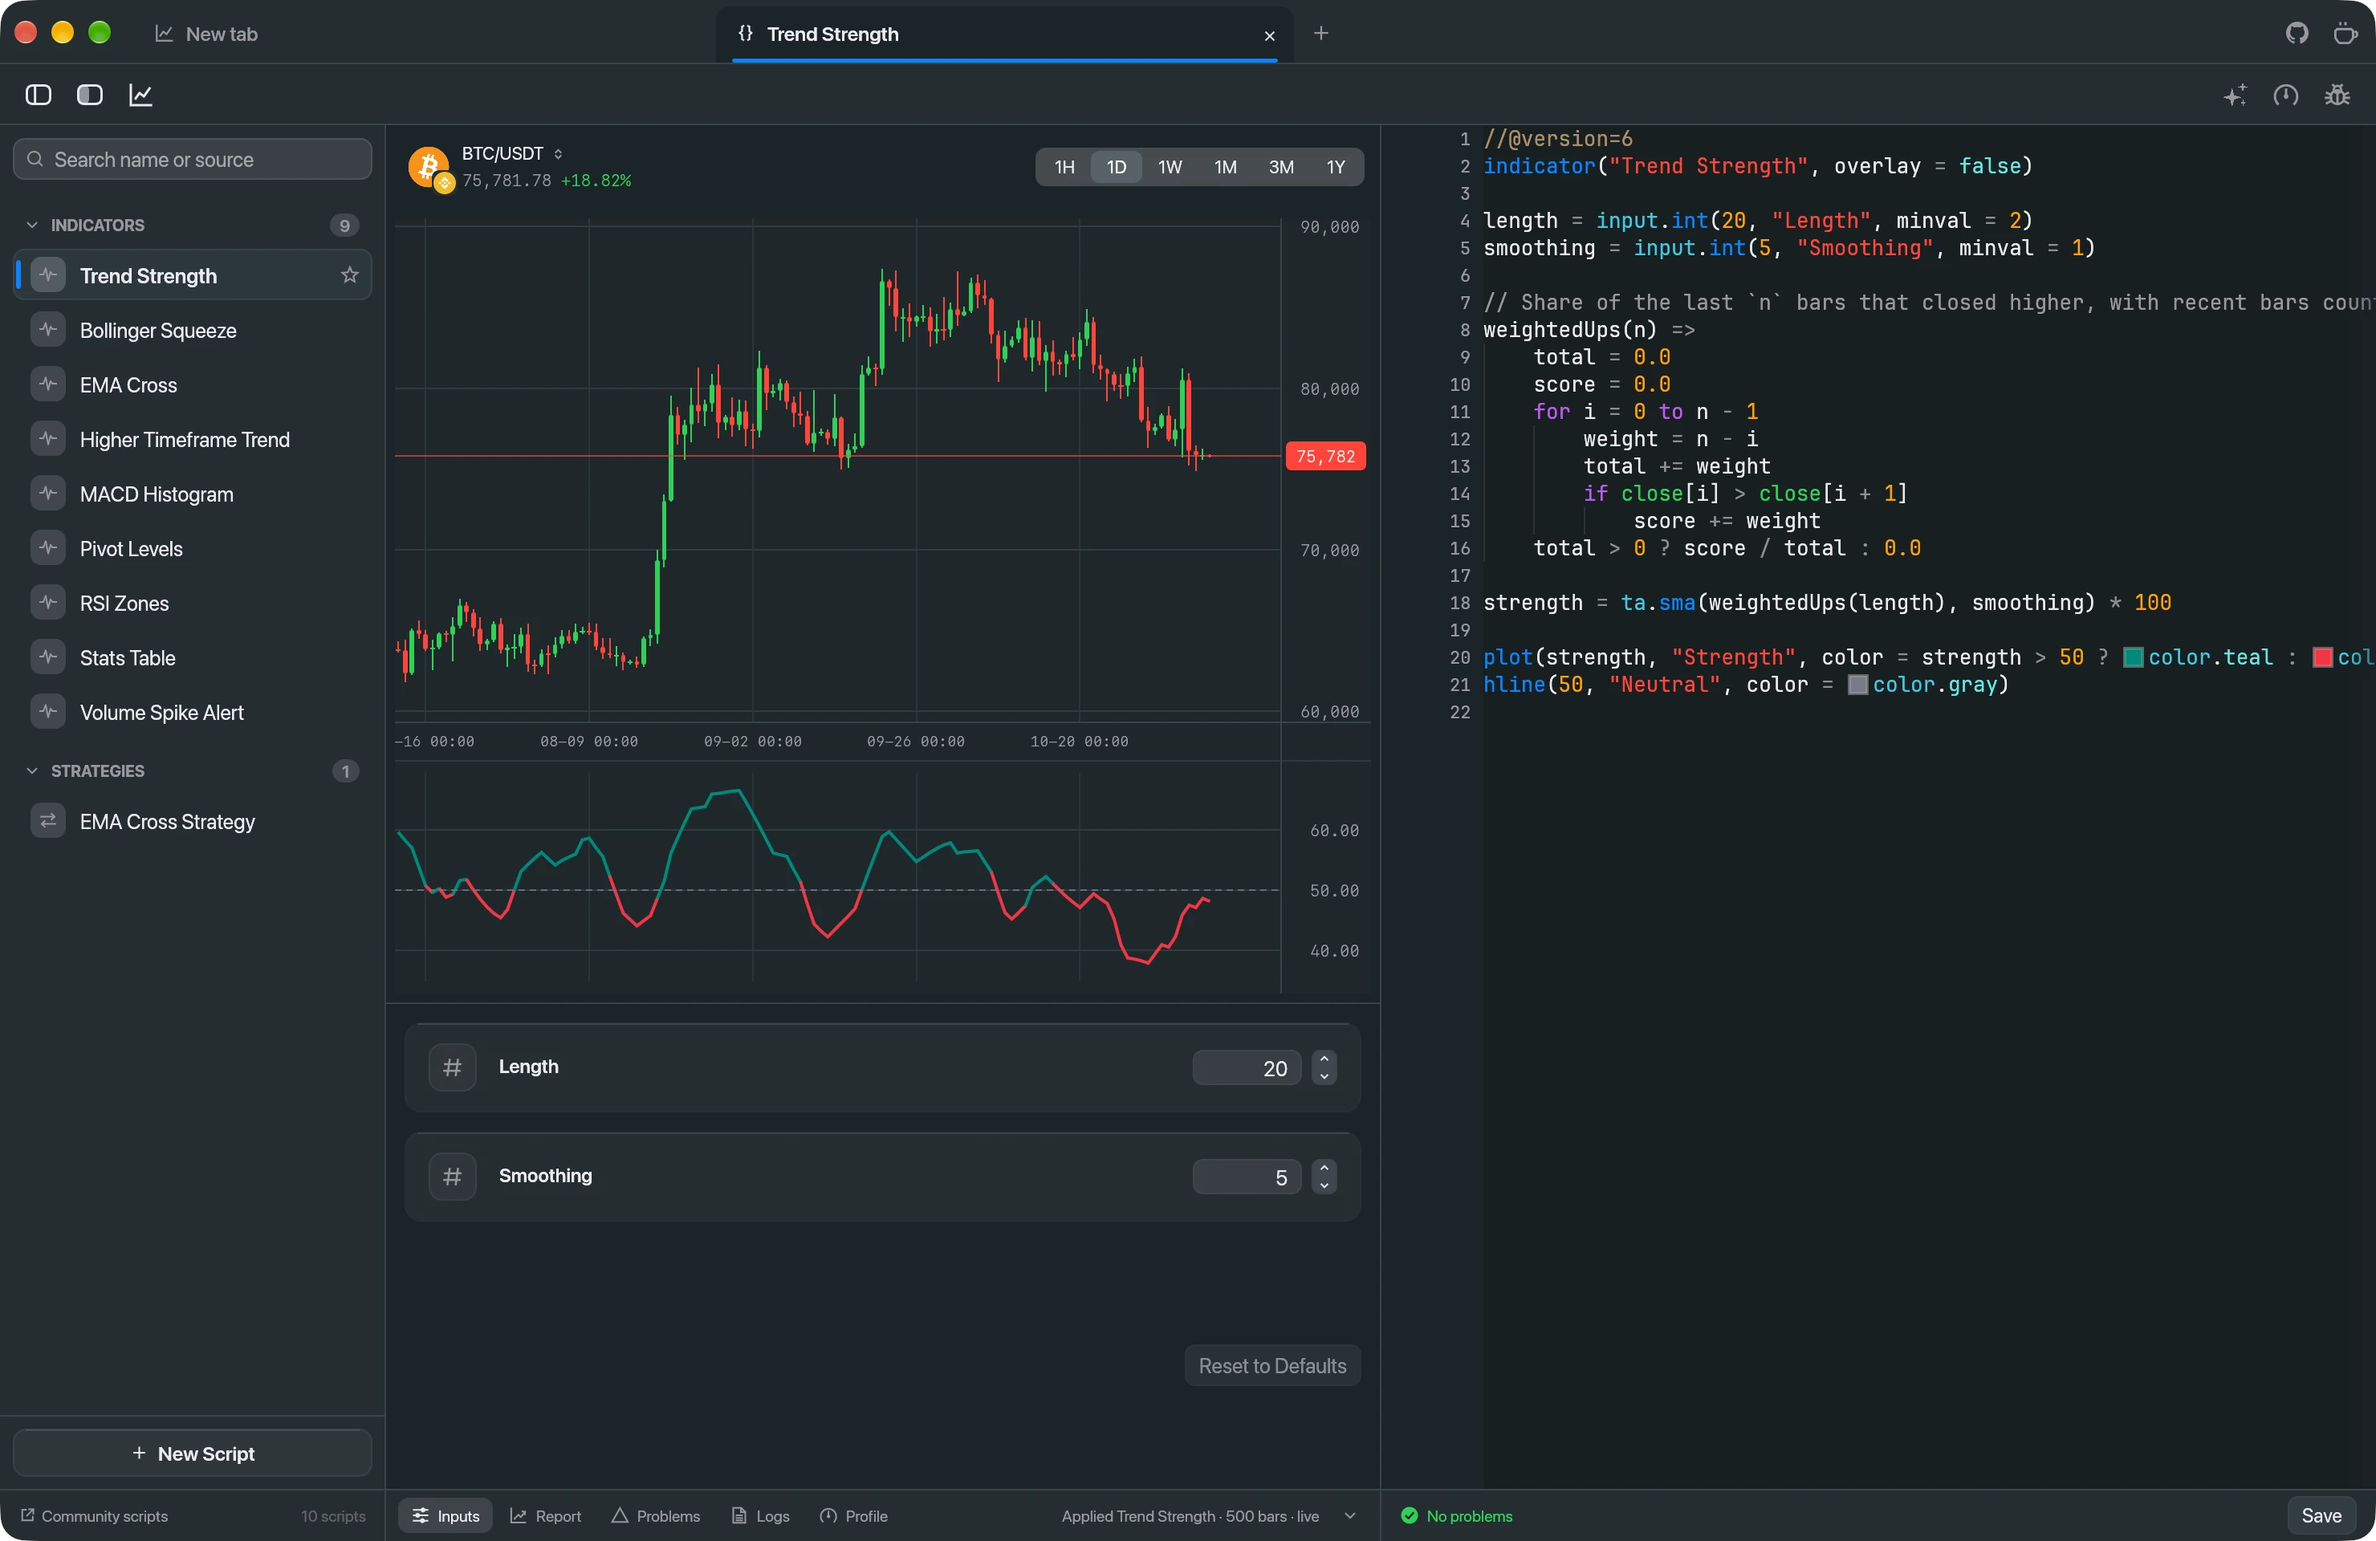
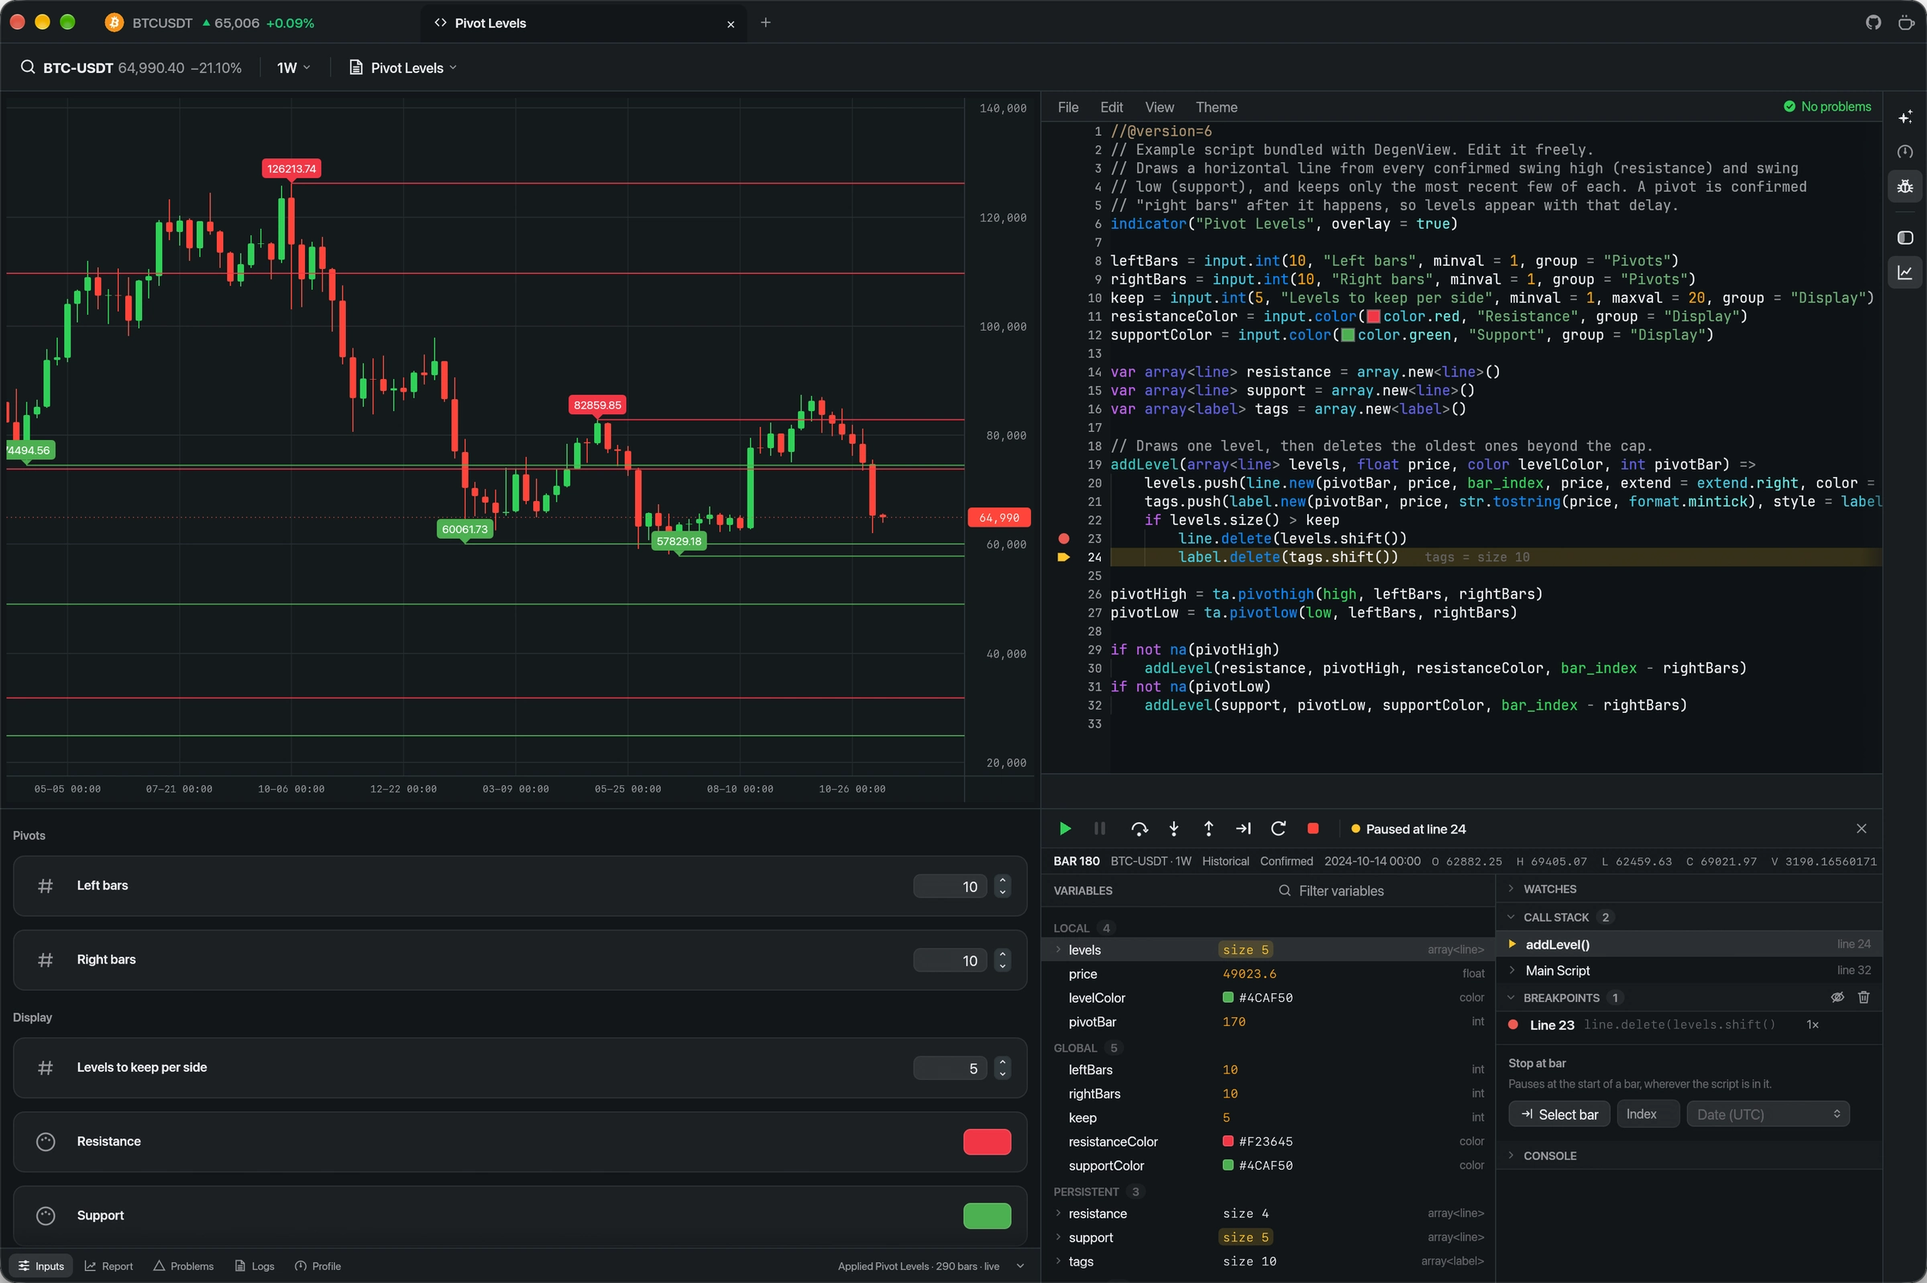
Replace the Pine Studio hero screenshots
New dark and light window shots (Pivot Levels script with the debugger
paused), cropped to the window edge. Hero alt text updated in all locales.

diff --git a/src/i18n/hi/pineStudio.ts b/src/i18n/hi/pineStudio.ts
@@ -46,7 +46,7 @@ export const pineStudio: Dict['pineStudio'] = {
     lead: 'Pine Script v6 लिखें, किसी भी लाइन पर रुकें, धीमे हिस्सों को profile करें और AI से मदद लें। आपकी मशीन पर, लाइव डेटा के साथ चलता है। फ्री, ओपन सोर्स, कोई अकाउंट नहीं।',
     docsLink: 'Pine Studio docs पढ़ें',
     chips: ['Pine Script v6', '100% लोकल चलता है', 'macOS · Windows · Linux', 'ओपन सोर्स · GPL-3.0'],
-    screenshotAlt: 'एडिटर में Trend Strength script, लाइव BTC/USDT प्रीव्यू chart और script के इनपुट के साथ Pine Studio',
+    screenshotAlt: 'एडिटर में Pivot Levels script, अपने लेवल के साथ लाइव BTC/USDT chart, script के इनपुट और एक लाइन पर रुके debugger के साथ Pine Studio',
   },
 
   write: {

diff --git a/src/i18n/fr/pineStudio.ts b/src/i18n/fr/pineStudio.ts
@@ -43,7 +43,7 @@ export const pineStudio: Dict['pineStudio'] = {
     lead: 'Écrivez du Pine Script v6, arrêtez-vous sur n’importe quelle ligne, profilez les parties lentes et faites-vous aider par une IA. Tourne sur votre machine, sur des données en direct. Gratuit, open source, sans compte.',
     docsLink: 'Lire la documentation de Pine Studio',
     chips: ['Pine Script v6', 'Tourne 100 % en local', 'macOS · Windows · Linux', 'Open source · GPL-3.0'],
-    screenshotAlt: 'Pine Studio avec le script Trend Strength dans l’éditeur, un graphique d’aperçu BTC/USDT en direct et les entrées du script',
+    screenshotAlt: 'Pine Studio avec le script Pivot Levels dans l’éditeur, un graphique BTC/USDT en direct avec ses niveaux, les entrées du script et le débogueur en pause sur une ligne',
   },
 
   write: {

diff --git a/src/i18n/es/pineStudio.ts b/src/i18n/es/pineStudio.ts
@@ -46,7 +46,7 @@ export const pineStudio: Dict['pineStudio'] = {
     lead: 'Escribe Pine Script v6, detente en cualquier línea, perfila las partes lentas y recibe ayuda de IA. Se ejecuta en tu equipo, con datos en vivo. Gratis, de código abierto y sin cuenta.',
     docsLink: 'Lee la documentación de Pine Studio',
     chips: ['Pine Script v6', 'Se ejecuta 100% en local', 'macOS · Windows · Linux', 'Código abierto · GPL-3.0'],
-    screenshotAlt: 'Pine Studio con el script Trend Strength en el editor, un gráfico de vista previa de BTC/USDT en vivo y las entradas del script',
+    screenshotAlt: 'Pine Studio con el script Pivot Levels en el editor, un gráfico de BTC/USDT en vivo con sus niveles, las entradas del script y el depurador en pausa en una línea',
   },
 
   write: {

diff --git a/src/i18n/de/pineStudio.ts b/src/i18n/de/pineStudio.ts
@@ -43,7 +43,7 @@ export const pineStudio: Dict['pineStudio'] = {
     lead: 'Schreib Pine Script v6, halte in jeder Zeile an, profiliere die langsamen Stellen und hol dir KI-Hilfe. Läuft auf deinem Rechner, mit Live-Daten. Kostenlos, Open Source, ohne Konto.',
     docsLink: 'Pine-Studio-Doku lesen',
     chips: ['Pine Script v6', 'Läuft zu 100 % lokal', 'macOS · Windows · Linux', 'Open Source · GPL-3.0'],
-    screenshotAlt: 'Pine Studio mit dem Skript Trend Strength im Editor, einem Live-Vorschau-Chart für BTC/USDT und den Eingaben des Skripts',
+    screenshotAlt: 'Pine Studio mit dem Skript Pivot Levels im Editor, einem Live-Chart für BTC/USDT mit seinen Levels, den Eingaben des Skripts und dem Debugger, pausiert auf einer Zeile',
   },
 
   write: {

diff --git a/src/i18n/zh/pineStudio.ts b/src/i18n/zh/pineStudio.ts
@@ -46,7 +46,7 @@ export const pineStudio: Dict['pineStudio'] = {
     lead: '编写 Pine Script v6，在任意一行中断，找出性能瓶颈，还有 AI 帮忙。在你的电脑上基于实时数据运行。免费开源，无需账号。',
     docsLink: '阅读 Pine Studio 文档',
     chips: ['Pine Script v6', '100% 本地运行', 'macOS · Windows · Linux', '开源 · GPL-3.0'],
-    screenshotAlt: 'Pine Studio：编辑器中打开 Trend Strength 脚本，旁边是实时 BTC/USDT 预览图表和脚本的输入项',
+    screenshotAlt: 'Pine Studio：编辑器中打开 Pivot Levels 脚本，旁边是带有价位线的实时 BTC/USDT 图表、脚本的输入项，以及暂停在某一行的调试器',
   },
 
   write: {

diff --git a/src/i18n/en/pineStudio.ts b/src/i18n/en/pineStudio.ts
@@ -44,7 +44,7 @@ export const pineStudio = {
     lead: 'Write Pine Script v6, break on any line, profile the slow parts and get AI help. Runs on your machine, on live data. Free, open source, no account.',
     docsLink: 'Read the Pine Studio docs',
     chips: ['Pine Script v6', 'Runs 100% locally', 'macOS · Windows · Linux', 'Open source · GPL-3.0'],
-    screenshotAlt: "Pine Studio with the Trend Strength script in the editor, a live BTC/USDT preview chart and the script's inputs",
+    screenshotAlt: "Pine Studio with the Pivot Levels script in the editor, a live BTC/USDT chart with its levels, the script's inputs and the debugger paused on a line",
   },
 
   write: {
